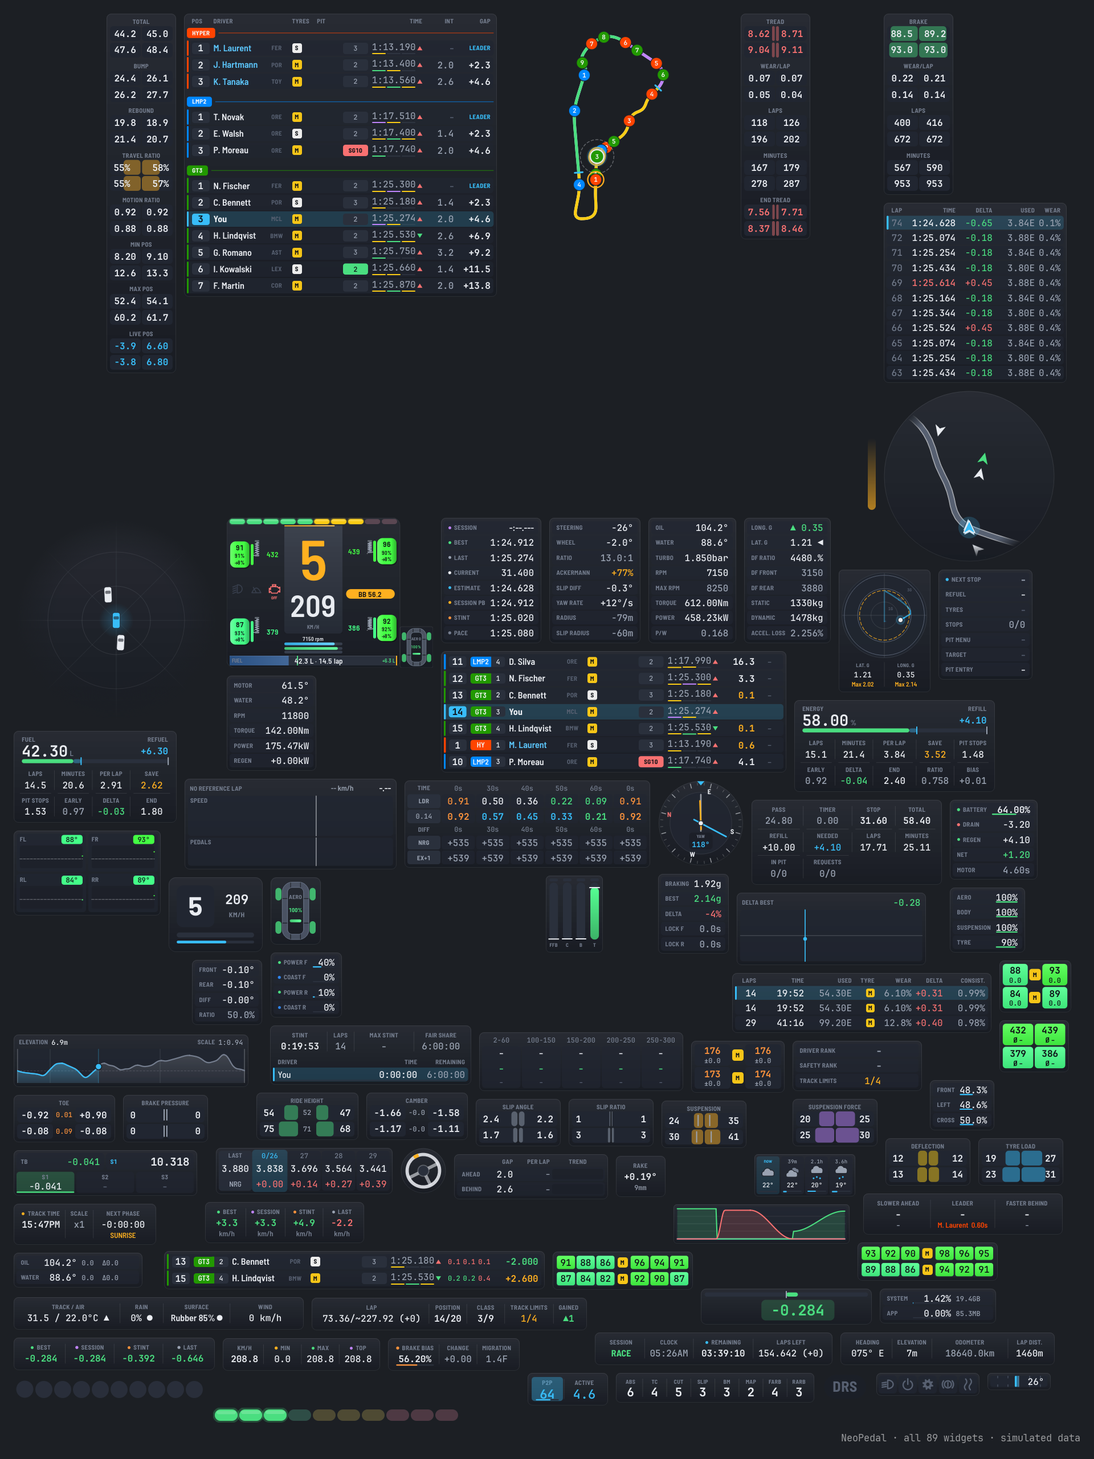
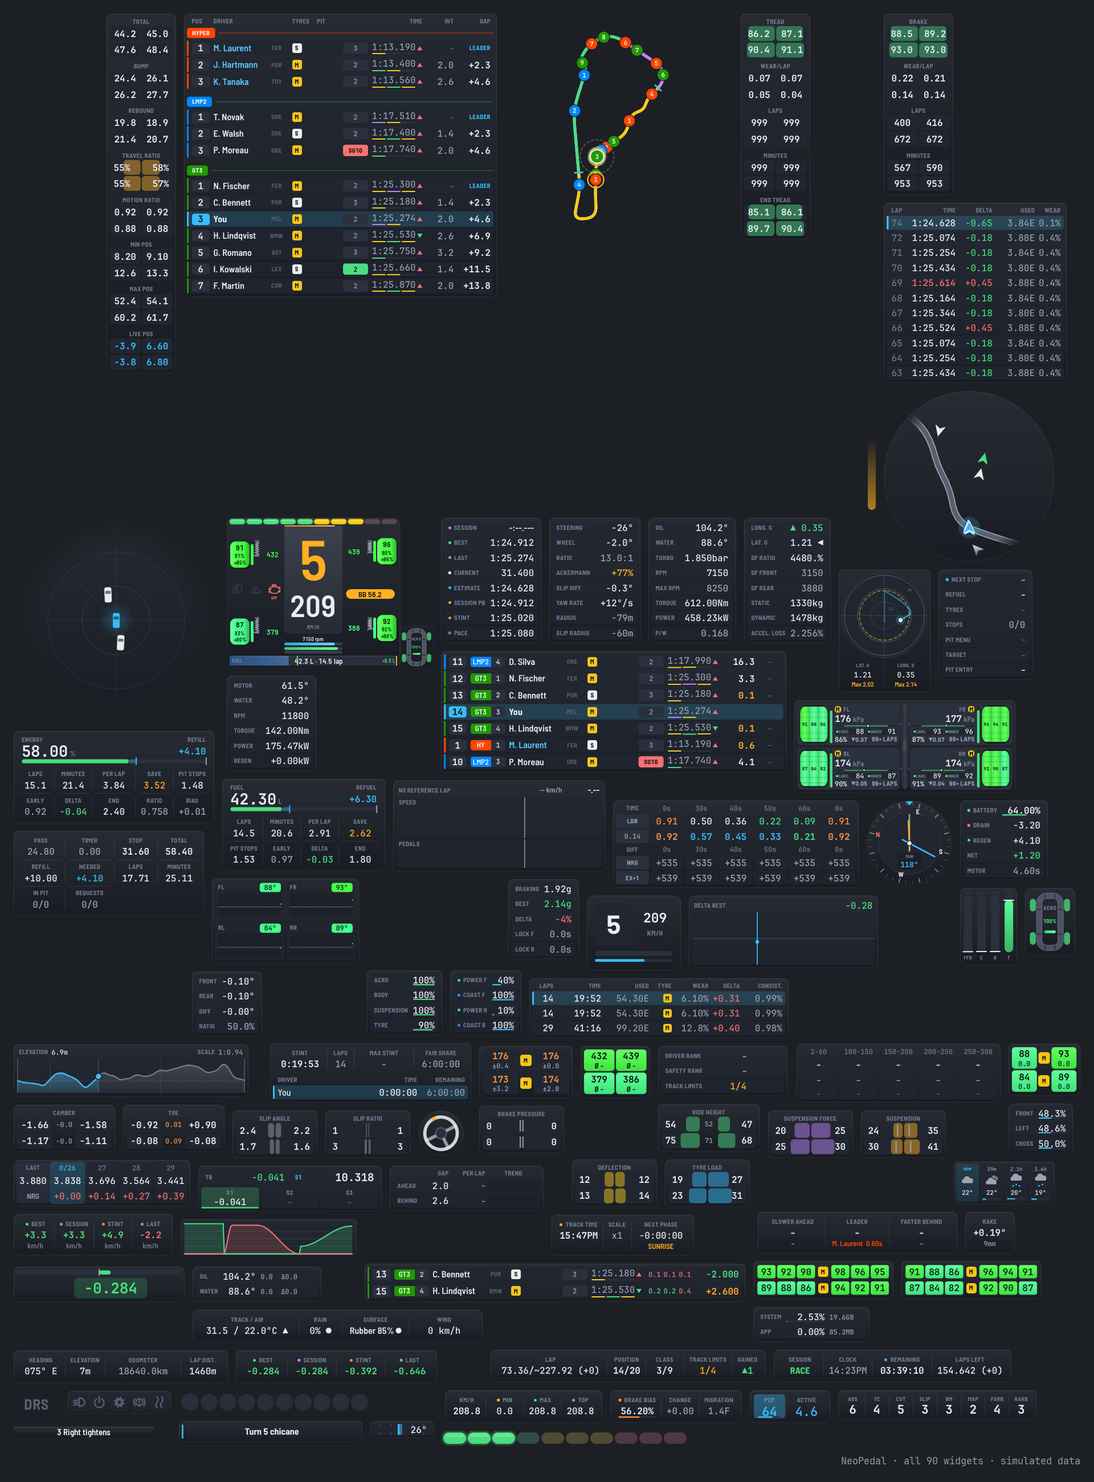
Compact Tyre Overview, ranks saved before accounts kept & 0.25.0 changelog
- Tyre Overview (modern): smaller cards, fonts, gaps and tyre ratio; wear per
  lap and laps left in label font
- Driver Rank: history lines saved without a Steam account (before 0.24) given
  to the account in use when no other account has lines, saved again with it
- Changelogs dated 0.25.0, README note & preview (90 overlays), wiki

diff --git a/neopedal/widget/_modern/tyre_overview.py b/neopedal/widget/_modern/tyre_overview.py
@@ -43,12 +43,13 @@ if TYPE_CHECKING:
     from ...template.widget_config_types import TyreOverviewConfig
 
 # Info rows of a card: (key, height in unit)
-HEADER_H = 1.05
-SURFACE_H = 1.05
-PRESSURE_H = 1.25
-RANGE_H = 0.5
-LAYERS_H = 0.95
-WEAR_H = 0.95
+HEADER_H = 0.85
+SURFACE_H = 0.9
+PRESSURE_H = 1.1
+RANGE_H = 0.4
+LAYERS_H = 0.8
+WEAR_H = 0.8
+TYRE_RATIO = 1.3  # tyre height / width, seen from above
 RANGE_MARGIN = 0.18  # pressure scale reaches past target range by this share of the range on both sides
 
 
@@ -74,8 +75,8 @@ class Realtime(TyreOverviewMixin, ModernOverlay):
         self.setup_overview()
         unit = self.unit
         self.add_font("tiny", 0.5, "bold", caps=True)
-        self.add_font("band", 0.62, "bold")  # temperatures on tyre bands
-        self.add_font("big", 1.18, "bold")  # pressure
+        self.add_font("band", 0.52, "bold")  # temperatures on tyre bands
+        self.add_font("big", 1.05, "bold")  # pressure
         wcfg = self.wcfg
         self.show_body = bool(wcfg["show_car_body"])
         self.show_highlight = self.show_alerts and bool(wcfg["show_alert_highlight"])
@@ -85,18 +86,18 @@ class Realtime(TyreOverviewMixin, ModernOverlay):
         self.show_range = self.use_target and bool(wcfg["show_pressure_target_range"])
         self.show_gauge = bool(wcfg["show_tread_gauge"])
         self.need_wear = self.need_wear or self.show_gauge
-        pad = unit * 0.4
-        self.card_pad = card_pad = unit * 0.3
-        self.chassis_w = unit * (1.6 if self.show_body else 0.4)  # middle of the car, between left & right cards
-        row_gap = unit * 0.35
+        pad = unit * 0.3
+        self.card_pad = card_pad = unit * 0.22
+        self.chassis_w = unit * (1.1 if self.show_body else 0.3)  # middle of the car, between left & right cards
+        row_gap = unit * 0.22
         # Tyre: three bands wide enough for their temperature, taller than wide (seen from above)
         bands = 3 if self.ico else 1
-        band_w = max(self.text_width("band", f"888{self.sign}") + unit * 0.2, unit * (0.9 if bands == 3 else 2.4))
-        self.band_inset = unit * 0.1
-        tyre_w = band_w * bands + self.band_inset * 2 if self.show_surface else unit * 2.0
-        self.gauge_w = unit * 0.32
+        band_w = max(self.text_width("band", f"888{self.sign}") + unit * 0.1, unit * (0.75 if bands == 3 else 2.0))
+        self.band_inset = unit * 0.09
+        tyre_w = band_w * bands + self.band_inset * 2 if self.show_surface else unit * 1.8
+        self.gauge_w = unit * 0.26
         chip_text = self.text_width("small", f"888{self.sign}")
-        layer_label = self.text_width("label", tr("Carc.")) if self.show_layer_labels else 0.0
+        layer_label = max(self.text_width("tiny", tr(label)) for label in ("Carc.", "Inner")) if self.show_layer_labels else 0.0
         rows = []
         if self.show_caption:
             rows.append(("header", HEADER_H))
@@ -111,18 +112,19 @@ class Realtime(TyreOverviewMixin, ModernOverlay):
         if self.need_wear and (self.show_wear or self.show_wear_lap or self.show_laps):
             rows.append(("wear", WEAR_H))
         info_w = max(
-            self.text_width("big", "888.8") + self.text_width("small", self.symbol_pres) + unit * 0.4,
-            (layer_label + chip_text + unit * 1.0) * 2,
-            (chip_text + unit * 0.4) * bands,
-            sum(self.text_width("small", text) for text in ("88%", "▼8.88", f"99+ {tr('laps')}")) + unit * 1.2,
-            unit * 5.2,
+            self.text_width("big", "888.8") + self.text_width("small", self.symbol_pres) + unit * 0.3,
+            (layer_label + chip_text + unit * 0.75) * 2 + unit * 0.12,
+            (chip_text + unit * 0.3) * bands,
+            self.text_width("small", "88%") + sum(self.text_width("label", text) for text in (
+                "▼8.88", f"99+ {tr('Laps').lower()}")) + unit * 0.7,
+            unit * 4.6,
         ) if rows else 0.0
         info_h = sum(height for _, height in rows) * unit
-        content_h = max(info_h, tyre_w * 1.45 if self.show_graphic else 0.0, unit * 2.0)
+        content_h = max(info_h, tyre_w * TYRE_RATIO if self.show_graphic else 0.0, unit * 2.0)
         # Parts of a card from outer side (corner of the car) toward the chassis, with gap before each
         parts = [(key, width, gap) for key, width, gap, shown in (
-            ("tyre", tyre_w, 0.0, self.show_graphic), ("gauge", self.gauge_w, unit * 0.2, self.show_gauge),
-            ("info", info_w, unit * 0.35, bool(rows))) if shown]
+            ("tyre", tyre_w, 0.0, self.show_graphic), ("gauge", self.gauge_w, unit * 0.15, self.show_gauge),
+            ("info", info_w, unit * 0.25, bool(rows))) if shown]
         if parts:
             parts[0] = (parts[0][0], parts[0][1], 0.0)
         content_w = sum(width + gap for _, width, gap in parts) or unit * 2.0
@@ -397,7 +399,7 @@ class Realtime(TyreOverviewMixin, ModernOverlay):
         theme = self.theme
         layers = [(label, value) for label, value, shown in (
             ("Carc.", card.carcass, self.show_carcass), ("Inner", card.inner, self.show_inner)) if shown]
-        gap = self.unit * 0.15
+        gap = self.unit * 0.12
         width = (rect.width() - gap * (len(layers) - 1)) / len(layers)
         for part, (label, value) in enumerate(layers):
             cell = QRectF(rect.left() + (width + gap) * part, rect.top() + rect.height() * 0.1, width,
@@ -408,7 +410,7 @@ class Realtime(TyreOverviewMixin, ModernOverlay):
             if color is not None:
                 rounded(painter, QRectF(cell.left() + dot * 0.6, cell.center().y() - dot / 2, dot, dot), dot / 2,
                         color)
-            inner = cell.adjusted(dot * 1.8, 0, -self.unit * 0.2, 0)
+            inner = cell.adjusted(dot * 1.7, 0, -self.unit * 0.15, 0)
             if self.show_layer_labels:
                 self.draw_text(painter, inner, tr(label), "tiny", theme.text_muted, LEFT)
             self.draw_text(painter, inner, self.temperature_text(value), "small", theme.text,
@@ -419,20 +421,21 @@ class Realtime(TyreOverviewMixin, ModernOverlay):
         parts = []
         if self.show_wear:
             warn = 0 <= card.remaining <= self.warn_remaining
-            parts.append((self.remaining_text(card.remaining), theme.negative if warn else theme.text))
+            parts.append((self.remaining_text(card.remaining), "small", theme.negative if warn else theme.text))
         if self.show_wear_lap:
             text = self.wear_text(card.wear)
-            parts.append((f"▼{text}" if text != DASH else DASH, theme.text_dim))
+            parts.append((f"▼{text}" if text != DASH else DASH, "label", theme.text_dim))
         if self.show_laps:
             warn = 0 <= card.laps <= self.warn_laps
-            parts.append((f"{self.laps_text(card.laps)} {self.laps_label}", theme.negative if warn else theme.text_dim))
+            parts.append((f"{self.laps_text(card.laps)} {self.laps_label}", "label",
+                          theme.negative if warn else theme.text_dim))
         if not parts:
             return
         # Justified: measured texts with even spaces between them
-        widths = [self.text_width("small", text) for text, _ in parts]
+        widths = [self.text_width(role, text) for text, role, _ in parts]
         space = (rect.width() - sum(widths)) / max(len(parts) - 1, 1)
         left = rect.left()
-        for (text, color), width in zip(parts, widths, strict=True):
-            self.draw_text(painter, QRectF(left, rect.top(), width, rect.height()), text, "small", color, LEFT,
+        for (text, role, color), width in zip(parts, widths, strict=True):
+            self.draw_text(painter, QRectF(left, rect.top(), width, rect.height()), text, role, color, LEFT,
                            elide=False)
             left += width + space

diff --git a/tests/test_driver_ranks.py b/tests/test_driver_ranks.py
@@ -194,6 +194,47 @@ def test_history_kept_per_steam_account(tmp_path):
     assert len(dr.account_history(dr.read_history(str(history)), "")) == 2  # account unknown: every line
 
 
+def test_history_of_unknown_account_given_to_account_in_use(tmp_path):
+    """History saved before accounts were (no account in lines), game cache emptied since: last ranks shown for
+    account in use, saved again with it, never given to another account later"""
+    path = tmp_path / dr.STORAGE_FILE
+    path.write_text(json.dumps({"other": "x"}), encoding="utf-8")
+    history = tmp_path / dr.HISTORY_FILE
+    history.write_text('{"time": 1791812665, "driver": ["Silver", 2, 40], "safety": ["Platinum", 3, 50]}\n',
+                       encoding="utf-8")
+    located = {"steam": "76561190000000001"}
+    watcher = dr.RankWatcher(lambda: dr.Located(str(path), located["steam"], ("Keenny Hess",)), lambda: str(history))
+    watcher.check()
+    assert watcher.remembered and watcher.updated == 1791812665
+    assert watcher.player.driver == dr.Rank("Silver", 2, 40) and watcher.player.safety == dr.Rank("Platinum", 3, 50)
+    assert watcher.player.steam_id == "76561190000000001"
+    entries = dr.read_history(str(history))
+    assert [entry.steam_id for entry in entries] == ["", "76561190000000001"] and entries[-1].time == 1791812665
+    watcher.check()  # file unchanged: not saved twice
+    assert len(dr.read_history(str(history))) == 2
+    # Other account: lines of first one never shown (new watcher: history read again from file)
+    located["steam"] = "76561190000000002"
+    other = dr.RankWatcher(lambda: dr.Located(str(path), located["steam"], ("Keenny Hess",)), lambda: str(history))
+    other.check()
+    assert other.player is None and not other.remembered
+    assert [account.steam_id for account in other.others] == ["76561190000000001"]
+    assert len(dr.read_history(str(history))) == 2
+
+
+def test_history_of_unknown_account_kept_when_other_account_known(tmp_path):
+    """Lines of unknown account never given to an account when another account has lines"""
+    path = tmp_path / dr.STORAGE_FILE
+    path.write_text(json.dumps({"other": "x"}), encoding="utf-8")
+    history = tmp_path / dr.HISTORY_FILE
+    history.write_text('{"time": 1, "driver": ["Gold", 1, 0], "safety": null}\n'
+                       '{"time": 2, "driver": ["Silver", 2, 40], "safety": null, "steam": "76561190000000002"}\n',
+                       encoding="utf-8")
+    watcher = dr.RankWatcher(lambda: dr.Located(str(path), "76561190000000001", ()), lambda: str(history))
+    watcher.check()
+    assert watcher.player is None and not watcher.remembered
+    assert len(dr.read_history(str(history))) == 2
+
+
 def test_recent_steam_users_order(tmp_path):
     from neopedal.process import player_profile as pp
 

diff --git a/neopedal/process/driver_ranks.py b/neopedal/process/driver_ranks.py
@@ -451,7 +451,7 @@ class RankWatcher:
         updated = max(mtime, 0.0)
         remembered = False
         if player is None and located.path:  # game found, its menu cache has no ranks now: last known kept
-            last = self.last_entry(located.steam_id)
+            last = self.last_entry(located.steam_id) or self.adopt_unknown_account(located.steam_id)
             if last is not None and (last.driver is not None or last.safety is not None):
                 player = DriverRanks(located.names[0] if located.names else "", located.steam_id, "", "",
                                      last.driver, last.safety, last.badge)
@@ -498,6 +498,22 @@ class RankWatcher:
         if self._last_entry is None or self._last_entry[0] != path:
             self._last_entry = (path, {entry.steam_id: entry for entry in read_history(path)})
         return self._last_entry[1].get(steam_id)
+
+    def adopt_unknown_account(self, steam_id: str) -> HistoryEntry | None:
+        """Last entry of unknown account (lines saved before accounts were, version < 0.24) given to game account
+        in use when no other account has lines, saved again with account (never given to a second one later), None
+        if none"""
+        path = self._history_path()
+        if not path or not steam_id or self.last_entry(steam_id) is not None or self._last_entry is None:
+            return None
+        entries = self._last_entry[1]
+        unknown = entries.get("")
+        if unknown is None or any(entries):  # any(): account of a line known
+            return None
+        entry = unknown._replace(steam_id=steam_id)
+        append_history(path, entry)  # not saved: given again next time (same account if still the only one)
+        entries[steam_id] = entry
+        return entry
 
     def record(self, player: DriverRanks, mtime: float, steam_id: str) -> None:
         """Add ranks of game account to history when changed since its last entry (badge too: shown while game

diff --git a/docs/wiki/Driver-Stats.md b/docs/wiki/Driver-Stats.md
@@ -45,7 +45,7 @@ The **Lap Time Reference** card on the right shows the **level scale** of the se
 
 - **Activity**: a calendar of the last 12 months, one square per day colored by your driving time (all tracks), with the days driven, the total time and your longest streak. Hover a day for its sessions.
 - **Recent Sessions**: your latest sessions on every track, with the best lap (★ when it was your personal best), the race result and the session type. Click one to open its track with its car selected.
-- **Driver**: name, country, team and number of your game profile (`UserData/player/Settings.JSON`), your Steam profile picture (from Steam's own cache, nothing is downloaded), and your races in the game results files: races, wins, podiums, average finish, clean races (no contact, no penalty) and contacts per race. Positions are class positions. With Le Mans Ultimate, your **Driver Rank** and **Safety Rank** too, as the game menu shows them, each in its color with the progress to the next tier, and the change since your previous rank (`▲ +10%`): every change of rank is kept in `driver_ranks.history` of the global config folder. Your **badge** as well (`Good Driver`, `Trusted Racer`, `Rookie`, `Warning`...), with the game's icon, name and description; the icon is downloaded once from Studio 397's public image server (no sign-in) and kept in `gameimage/badge`. **Several game accounts** on one computer (several Steam accounts): ranks are kept per account, the account in use is the one signed in to Steam (followed live), and your other accounts are listed below with their Steam name and picture, last ranks seen, badge and date. When the game rewrites its menu file without your ranks, the last ranks seen of the account in use are shown with their date.
+- **Driver**: name, country, team and number of your game profile (`UserData/player/Settings.JSON`), your Steam profile picture (from Steam's own cache, nothing is downloaded), and your races in the game results files: races, wins, podiums, average finish, clean races (no contact, no penalty) and contacts per race. Positions are class positions. With Le Mans Ultimate, your **Driver Rank** and **Safety Rank** too, as the game menu shows them, each in its color with the progress to the next tier, and the change since your previous rank (`▲ +10%`): every change of rank is kept in `driver_ranks.history` of the global config folder. Your **badge** as well (`Good Driver`, `Trusted Racer`, `Rookie`, `Warning`...), with the game's icon, name and description; the icon is downloaded once from Studio 397's public image server (no sign-in) and kept in `gameimage/badge`. **Several game accounts** on one computer (several Steam accounts): ranks are kept per account, the account in use is the one signed in to Steam (followed live), and your other accounts are listed below with their Steam name and picture, last ranks seen, badge and date. When the game rewrites its menu file without your ranks, the last ranks seen of the account in use are shown with their date (ranks saved before 0.24.0, without their account, go to the account in use when no other account has saved ranks).
 
 ![Driver card with ranks](https://raw.githubusercontent.com/Keenny38/ModernTinyPedals/master/docs/changes/2026-10-12-driver-card-ranks.png)
 

diff --git a/README.md b/README.md
@@ -9,7 +9,7 @@
 
 <p align="center">
   <b>Telemetry overlays and analysis tools for Le Mans Ultimate and rFactor 2</b><br>
-  89 overlays with a modern design, a telemetry viewer, race strategy, driver stats and a broadcast director.<br>
+  90 overlays with a modern design, a telemetry viewer, race strategy, driver stats and a broadcast director.<br>
   Free and open source, in English and French.
 </p>
 
@@ -29,12 +29,12 @@
   <a href="docs/ROADMAP.md">Roadmap</a>
 </p>
 
-![The 89 overlays with the modern design on a simulated race at Road Atlanta](images/readme_preview.png)
+![The 90 overlays with the modern design on a simulated race at Road Atlanta](images/readme_preview.png)
 
 NeoPedal is a telemetry overlay and analysis app: a modern design, a clear interface, many tools and a lot of work on reliability.
 
 > [!NOTE]
-> **New in 0.24.0**: new **`Driver Rank`** overlay and your **Driver Rank & Safety Rank** (Le Mans Ultimate) on the Home page, the driver stats and the Broadcast Director, kept per Steam account. **Standings, Relative and Rivals** like a timing tower: running lap time with sector bars, pit status and stops in one column, the **real penalties** of the game (`DT`, `SG10`), column labels, gaps in class timed like a timing screen, new `Energy per Lap` and `Track limits` columns. The Black box is now the **Dashboard HUD**, with a pop-up for every setting you change in the car, track limits, gaps, lift & coast and wipers, your own display profiles. **Results & Replays** are now one page: each replay linked to its results, and a play button on every event or lap opens the replay at that moment. **One look per meaning everywhere**: the same status colors, class badges and tyre compound badges in overlays, app pages and stream sources. `Trailing` gets pedal bars. On / off switch for the **Broadcast Director** and the **Race Calculator**, standings tower carousel up to 70 cars. Keyboard navigation on every page, `Config` > `Import Settings...`, and **lighter on memory, CPU and GPU** (hidden pages freed, overlays repainted only when a pixel changes, VR and stream capture on demand). All the details, with screenshots, in the [changelog](CHANGELOG.md).
+> **New in 0.25.0**: new **`Tyre Overview`** overlay, every tyre reading in one card per tyre placed as on the car (temperatures on the tyre, compound or alert, pressure on its target scale, carcass & inner layer, tread gauge, wear and laps left). **Safer options**: every number has limits shown in its tooltip, out of range values are repaired as the preset loads, `Check Preset` lists and repairs a preset, an overlay too big is cut instead of freezing the computer. The **Overlay Options** preview shows race situations (flags, pits, damage, rain) and the other design, `Test on Screen` shows them on the overlays on screen, `Used only` hides the options doing nothing. French translation reviewed in full and many overlay fixes. All the details, with screenshots, in the [changelog](CHANGELOG.md).
 
 ---
 

diff --git a/CHANGELOG.fr.md b/CHANGELOG.fr.md
@@ -3,7 +3,7 @@
 Toutes les nouveautés de **NeoPedal** (anciennement Modern Tiny Pedals), la version la plus récente en premier. English version: [CHANGELOG.md](CHANGELOG.md).
 C'est ce fichier que l'app affiche dans la page `Nouveautés` quand elle est en français. La liste détaillée des commits de chaque version est sur la page [Releases](https://github.com/Keenny38/ModernTinyPedals/releases).
 
-## 0.25.0 (unreleased)
+## 0.25.0 (2026-10-17)
 
 Des options plus sûres partout : chaque nombre a des limites visibles, les presets sont réparés au chargement, et la page Options des overlays montre des situations de course et les deux designs.
 
@@ -42,6 +42,7 @@ Des options plus sûres partout : chaque nombre a des limites visibles, les pres
 
 - **Classement, Relatif et Rivaux** : l'ordre des colonnes et les colonnes activées suivent la page à chaque fois ; le design classique ne liste plus l'ordre des colonnes propres au design moderne (tendance d'écart, limites de piste, énergie par tour).
 - **Options des overlays** : `Annuler` et `Rétablir` pendant l'édition d'un champ affichent la valeur rétablie ; options grisées à tort, ou pas grisées, sur de nombreux overlays.
+- **Driver Rank** : les rangs enregistrés avant la 0.24.0 (sans leur compte Steam) s'affichent de nouveau quand le fichier du menu du jeu n'en a pas : ils vont au compte utilisé si aucun autre compte n'a de rangs enregistrés, jamais à un deuxième compte.
 - **Traduction française relue en entier** : vouvoiement partout, un seul mot pour les classes de véhicules (« catégorie »), environ 200 libellés, aides et messages corrigés (accords, rapport puissance/poids, mots manquants), et les textes encore en anglais traduits (overlays Drapeau, Moteur, Force, Performances système, messages d'erreur).
 - **Overlays**, trouvés en vérifiant chaque option : rayon de disparition du radar, température moyenne des freins et vitesse maxi du Compteur de vitesse remises à zéro avec la session, cône d'impact du Compteur ATH après un redémarrage, overlay ramené à l'écran qui y reste, alerte de carburant ou d'énergie faible avec une consommation inconnue, échelle globale qui ne rallume plus les options à 0, `100%` qui n'est plus coupé, temps au tour comme `1:60.0`, Secteurs après un reset, échelle de temps de l'Historique, décimales du Cap, moyenne de Pression des pneus, minuteurs des Notes de piste, graduations de la Jauge de direction, et bien d'autres.
 

diff --git a/CHANGELOG.md b/CHANGELOG.md
@@ -3,7 +3,7 @@
 All notable changes to **NeoPedal** (formerly Modern Tiny Pedals), newest version first. Version française : [CHANGELOG.fr.md](CHANGELOG.fr.md).
 The full list of commits of each version is on the [Releases](https://github.com/Keenny38/ModernTinyPedals/releases) page.
 
-## 0.25.0 (unreleased)
+## 0.25.0 (2026-10-17)
 
 Safer options everywhere: every number has limits you can see, presets are repaired as they load, and the Overlay Options page shows race situations and both designs.
 
@@ -42,6 +42,7 @@ Safer options everywhere: every number has limits you can see, presets are repai
 
 - **Standings, Relative and Rivals**: column order and columns on or off follow the page every time; the classic design no longer lists the orders of modern only columns (gap trend, track limits, energy per lap).
 - **Overlay Options**: `Undo` and `Redo` while a field is being edited show the restored value; options greyed out wrongly, or not greyed out, on many overlays.
+- **Driver Rank**: ranks saved before 0.24.0 (without their Steam account) are shown again while the game menu file has none: they go to the account in use when no other account has saved ranks, never to a second account.
 - **French translation reviewed in full**: the app speaks to you with « vous » everywhere, one word for vehicle classes (« catégorie »), about 200 labels, help texts and messages corrected (agreements, power/weight ratio, missing words), and texts still in English translated (Flag, Engine, Force, System Performance overlays, error messages).
 - **Overlays**, found by reviewing every option: radar fade radius, brake average temperature and Speedometer top speed reset with the session, Dashboard HUD impact cone after a restart, overlay brought back on screen staying there, low fuel or energy alert with an unknown consumption, global scale no longer turning on options set to 0, `100%` no longer cut, lap times like `1:60.0`, Sectors after a reset, Trailing time scale, Heading decimals, Tyre Pressure average, Track Notes timers, Steering Meter marks, and many more.
 
